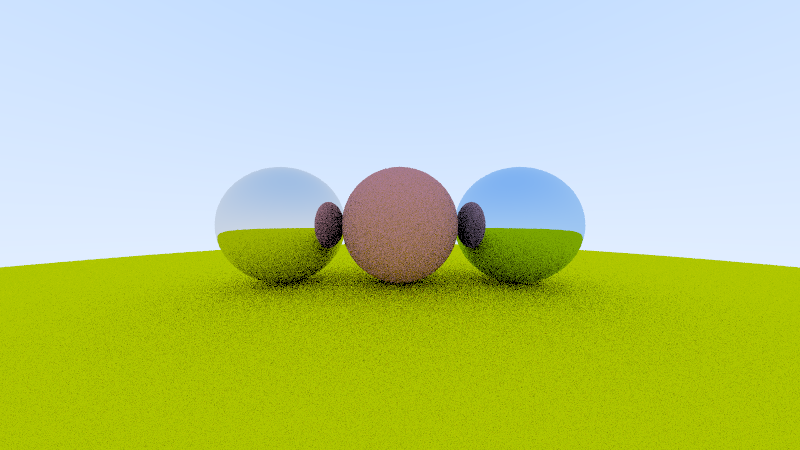
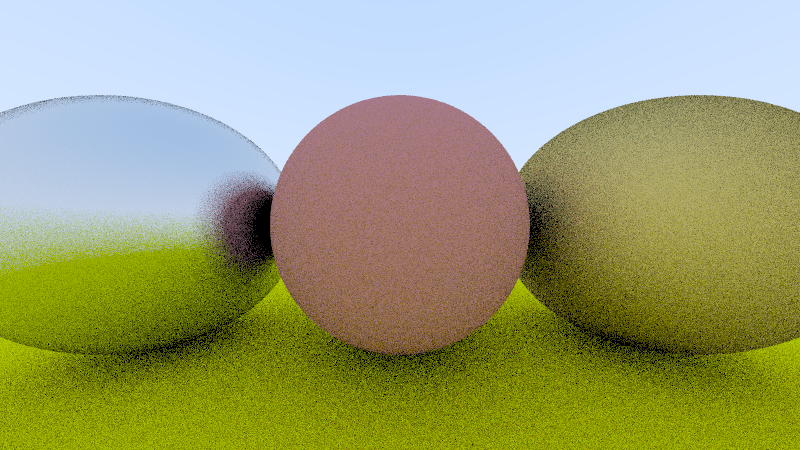
add glass and change random generator (wip)

diff --git a/src/camera.cpp b/src/camera.cpp
@@ -11,19 +11,22 @@ void Camera::render(const Hittable& world)
 
     cv::Mat img(_img_height, img_width, CV_8UC3);
 
+    int num_rays = 5;
+
     for (int j = 0; j < _img_height; j++) {
         for (int i = 0; i < img_width; i++) {
             Color pixel_color(0, 0, 0);
             for (int sample = 0; sample < sample_per_pixel; ++sample) {
+
                 Ray ray = get_ray(i, j);
                 pixel_color += ray_color(ray, max_depth, world);
             }
-            img.at<cv::Vec3b>(j, i) = write_color(pixel_color, sample_per_pixel);
 
+            img.at<cv::Vec3b>(j, i) = write_color(pixel_color, sample_per_pixel);
         }
     }
 
-    cv::imwrite("/workspace/output/world_metal.png", img);
+    cv::imwrite("/workspace/output/world_glass.png", img);
 }
 
 void Camera::initialize()
@@ -66,15 +69,14 @@ Color Camera::ray_color(const Ray& ray, int depth, const Hittable& world) const
     }
 
     if (world.hit(ray, Interval(0.001, R_INFINITY), record)) { // ignore hits that are very close to the calculated intersection point 
-        // cv::Vec3d direction = record.normal + random_unit_vector();
-        // return 0.5 * ray_color(Ray(record.p, direction), depth-1, world); // gray : 50% of the color bounce off
 
         Ray scattered;
         Color attenuation;
         if (record.material->scatter(ray, record, attenuation, scattered))
         {
             Color scattered_color = ray_color(scattered, depth - 1, world);
-            // return attenuation * ray_color(scattered, depth-1, world);
+
+            // return ray_color(scattered, depth-1, world);
             return Color(attenuation[0] * scattered_color[0], attenuation[1] * scattered_color[1], attenuation[2] * scattered_color[2]);
         }
         return Color(0, 0, 0);

diff --git a/include/utils.hpp b/include/utils.hpp
@@ -8,24 +8,36 @@
 #include <hittable_list.hpp>
 #include <constants.hpp>
 #include <cstdlib>
+#include <iostream>
+#include <random>
 
 cv::Vec3d unit_vector(const cv::Vec3d v);
+cv::Vec3d pointwise(const cv::Vec3d v, const cv::Vec3d u);
 cv::Vec3d reflect(const cv::Vec3d& v, const cv::Vec3d& n);
+inline cv::Vec3d refract(const cv::Vec3d& uv, const cv::Vec3d& n, double etai_over_etat)
+{
+    auto cos_theta = fmin((-uv).dot(n), 1.0);
+
+    std::cout << "cos_theta : " << cos_theta << std::endl;
+
+    cv::Vec3d r_out_perp = etai_over_etat * (uv + cos_theta * n); 
+    cv::Vec3d r_out_parallel = -sqrt(fabs(1.0 - r_out_perp.dot(r_out_perp))) * n;
+
+    return r_out_perp + r_out_parallel;
+}
 bool near_zero(const cv::Vec3d v);
 cv::Vec3d random_in_unit_sphere();
 cv::Vec3d random_unit_vector();
 cv::Vec3d random_on_hemisphere(const cv::Vec3d& normal);
 double hit_sphere(const cv::Vec3d& center, double radius, const Ray& ray);
 cv::Vec3d random_vector();
-cv::Vec3d random_vector(double min, double max);
 inline double degrees_to_radians(double degrees) {
     return degrees * R_PI / 180.0;
 }
 inline double random_double() {
-    return rand() / (RAND_MAX + 1.0);
-}
-inline double random_double(double min, double max) {
-    return min + (max - min)*random_double();
+    static std::uniform_real_distribution<double> distribution(0.0, 1.0);
+    static std::mt19937 generator;
+    return distribution(generator);
 }
 
 

diff --git a/src/utils.cpp b/src/utils.cpp
@@ -9,6 +9,11 @@ cv::Vec3d unit_vector(const cv::Vec3d v)
     return v / length;
 }
 
+cv::Vec3d pointwise(const cv::Vec3d v, const cv::Vec3d u)
+{
+    return cv::Vec3d(v[0]*u[0], v[1]*u[1], v[2]*u[2]);
+}
+
 cv::Vec3d reflect(const cv::Vec3d& v, const cv::Vec3d& n)
 {
     return v - 2*v.dot(n)*n;
@@ -25,7 +30,7 @@ bool near_zero(const cv::Vec3d v)
 cv::Vec3d random_in_unit_sphere()
 {
     while (true) {
-        auto p = random_vector(-1, 1);
+        auto p = random_vector();
         if (p.dot(p) < 1)
             return p;
     }
@@ -52,11 +57,6 @@ cv::Vec3d random_vector()
     return cv::Vec3d(random_double(), random_double(), random_double());
 }
 
-cv::Vec3d random_vector(double min, double max)
-{
-    return cv::Vec3d(random_double(min, max), random_double(min, max), random_double(min, max));
-}
-
 // checks if a ray hits the sphere
 double hit_sphere(const cv::Vec3d& center, double radius, const Ray& ray)
 {
@@ -70,7 +70,6 @@ double hit_sphere(const cv::Vec3d& center, double radius, const Ray& ray)
     if (discreminant < 0) {
         return -1.0;
     } else {
-        // std::cout << "(-b - sqrt(discreminant)) / (2.0*a) = " << (-b - sqrt(discreminant)) / (2.0*a) << std::endl;
         return (-half_b - sqrt(discreminant)) / a;
     }
 }

diff --git a/src/main.cpp b/src/main.cpp
@@ -13,14 +13,14 @@ int main()
     HittableList world;
 
     auto material_ground = std::make_shared<Lambertian>(Color(0.8, 0.8, 0.0));
-    auto material_center = std::make_shared<Lambertian>(Color(0.7, 0.3, 0.3));
-    auto material_left = std::make_shared<Metal>(Color(0.8, 0.8, 0.8));
-    auto material_right = std::make_shared<Metal>(Color(0.5, 0.7, 0.9));
+    auto material_center = std::make_shared<Dialectric>(1.5);
+    auto material_left = std::make_shared<Dialectric>(1.5);
+    auto material_right = std::make_shared<Metal>(Color(0.8, 0.6, 0.2), 1.0);
 
-    world.add(std::make_shared<Sphere>(Point3(0, -100.5, -2), 100, material_ground));
-    world.add(std::make_shared<Sphere>(Point3(0, 0, -2), 0.5, material_center));
-    world.add(std::make_shared<Sphere>(Point3(-1, 0, -2), 0.5, material_left));
-    world.add(std::make_shared<Sphere>(Point3(1, 0, -2), 0.5, material_right));
+    world.add(std::make_shared<Sphere>(Point3(0, -100.5, -1), 100, material_ground));
+    world.add(std::make_shared<Sphere>(Point3(0, 0, -1), 0.5, material_center));
+    world.add(std::make_shared<Sphere>(Point3(-1, 0, -1), 0.5, material_left));
+    world.add(std::make_shared<Sphere>(Point3(1, 0, -1), 0.5, material_right));
 
     Camera camera;
 

diff --git a/src/material.cpp b/src/material.cpp
@@ -27,3 +27,24 @@ bool Metal::scatter(const Ray& r_in, const HitRecord& record, Color& attenuation
     // refected ray should be on the same side of the surface as the normal vector
     return (scattered.direction().dot(record.normal) > 0); 
 }
+
+Dialectric::Dialectric(double index_of_refraction)
+    :_index_of_refraction(index_of_refraction)
+{}
+
+bool Dialectric::scatter(const Ray& r_in, const HitRecord& record, Color& attenuation, Ray& scattered) const
+{
+    attenuation = Color(1.0, 1.0, 1.0);
+
+    double refraction_ratio = record.front_face ? (1.0 / _index_of_refraction) : _index_of_refraction;
+
+    cv::Vec3d unit_direction = unit_vector(r_in.direction());
+
+    std::cout << "unit_direction: length : " << unit_direction.dot(unit_direction) << std::endl;
+
+    cv::Vec3d refracted = refract(unit_direction, record.normal, refraction_ratio);
+
+    scattered = Ray(record.p, refracted);
+
+    return true;
+}

diff --git a/include/material.hpp b/include/material.hpp
@@ -37,4 +37,14 @@ private:
 
 };
 
+class Dialectric : public Material {
+public:
+    Dialectric(double index_of_refraction);
+
+    bool scatter(const Ray& r_in, const HitRecord& record, Color& attenuation, Ray& scattered) const override;
+
+private:
+    double _index_of_refraction;
+};
+
 #endif
